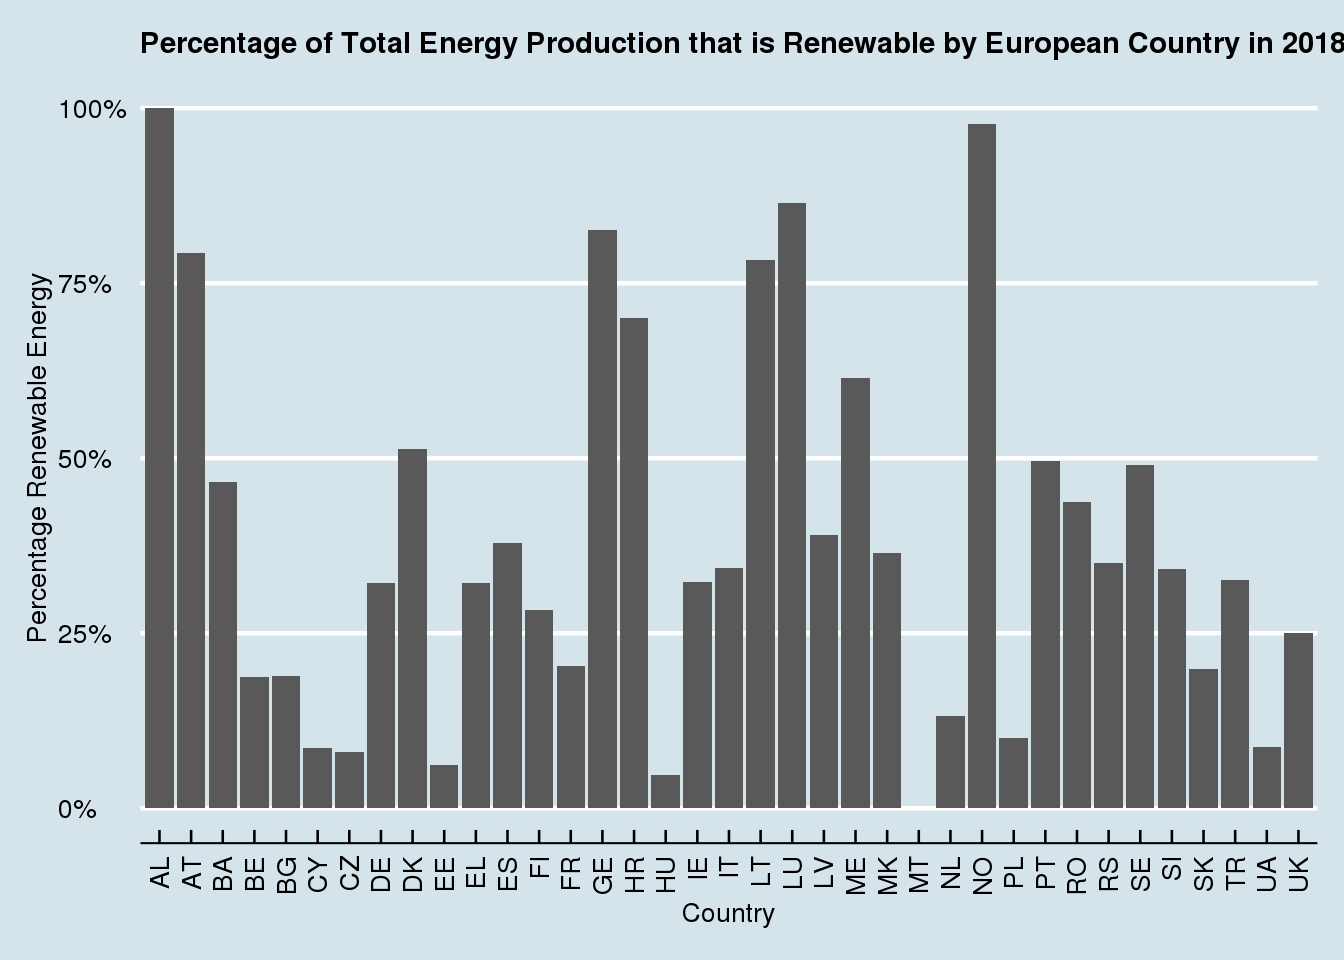
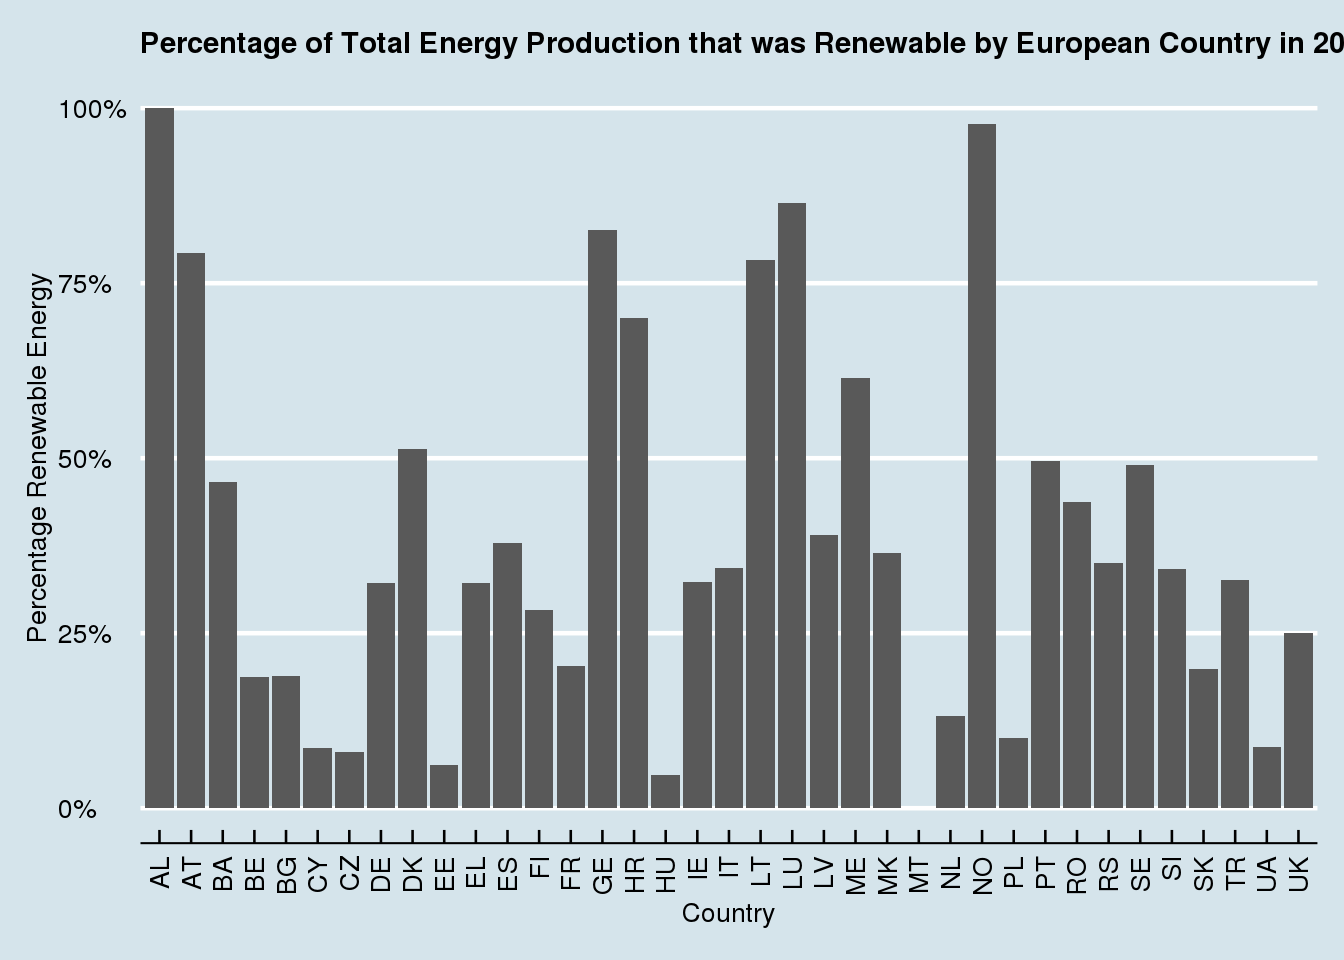
Q2 answer

Changed region(s): [[0.5625, 0.0312, 1.0, 0.0625]]

diff --git a/public/2020/12/08/european-energy-data-analysis/index.html b/public/2020/12/08/european-energy-data-analysis/index.html
@@ -66,7 +66,7 @@
 
   <article class="article">
     
-    <span class="article-duration">4 min read</span>
+    <span class="article-duration">5 min read</span>
     
 
     <h1 class="article-title">European Energy Data Analysis</h1>
@@ -85,9 +85,11 @@
 <h1>European Energy Usage: Clean Energy vs. Conventional</h1>
 <p>Using data that is available on the Tidy Tuesday website on European Energy, I will investigate the energy usage among European countries with an emphasis on which countries are the best at using renewable energy. I will be examining data from the <code>energy_types.csv</code> file from the Tidy Tuesday website. The data consists of 296 observations and 7 variables. The data displays each the energy production from each European country from 2016-2018 and breaks it down by how much energy was produced by conventional thermal, nuclear, hydroelectric, pumped hydroelectric, wind, solar, geothermal, and other.</p>
 <p>The second dataset I will use to explore European Energy production is the <code>country_totals.csv</code> file from the Tidy Tuesday website. The data consists of 185 observations and 7 variables. The data displays the total energy consumption of each European country from 2016-2018 as well as the total energy production of each country.</p>
-<p>For the purposes of this blog post Renewable Energy will be hydroelectric, pumped hydroelectric, wind, solar, geothermal, and other energy productions and clean energy will be renewable energy plus nuclear energy.
-# Question 1</p>
-<p>Which European country had the largest percentage of their total energy production made up of renewable energy in 2018? Which European country had the largest percentage of their total energy production made up of clean energy? To find this, I made 3 separate data frames to summarize the total renewable energy, nuclear energy, and conventional thermal energy that each European Country used. I then joined the 3 data frames and selected the columns with the 2018 data to make one dataset with all of the summarized Energy data from 2018.</p>
+<p>For the purposes of this blog post Renewable Energy will be hydroelectric, pumped hydroelectric, wind, solar, geothermal, and other energy productions and clean energy will be renewable energy plus nuclear energy.</p>
+</div>
+<div id="question-1" class="section level1">
+<h1>Question 1</h1>
+<p>Which European country had the largest percentage of their total energy production made up of renewable energy in 2018? Which European country had the largest percentage of their total energy production made up of clean energy? To find this, I made 3 separate data frames to summarize the total renewable energy, nuclear energy, and conventional thermal energy that each European Country used. I then joined the 3 data frames and selected the columns with the 2018 data to make one dataset with all of the summarized energy data from 2018.</p>
 <pre class="r"><code>dat &lt;- energy_types %&gt;%
   left_join(country_totals, by = c(&quot;country&quot;, &quot;country_name&quot;)) %&gt;%
   rename(twenty_16.x = &#39;2016.x&#39;, twenty_17.x = &#39;2017.x&#39;, twenty_18.x = &#39;2018.x&#39;) %&gt;%
@@ -120,7 +122,7 @@ data_18 &lt;- country_totals  %&gt;%
   geom_bar(stat = &quot;identity&quot;) +
   scale_y_continuous(labels = scales::percent) +
   labs(x = &quot;Country&quot;, y = &quot;Percentage Renewable Energy&quot;) +
-  ggtitle(&quot;Percentage of Total Energy Production that is Renewable by European Country in 2018&quot;) +
+  ggtitle(&quot;Percentage of Total Energy Production that was Renewable by European Country in 2018&quot;) +
   theme_economist() +
   theme(axis.text.x = element_text(angle = 90, hjust = 1, vjust = 0.5)) +
   theme(plot.title = element_text(size = 11))</code></pre>
@@ -129,15 +131,49 @@ data_18 &lt;- country_totals  %&gt;%
   geom_bar(stat = &quot;identity&quot;) +
   scale_y_continuous(labels = scales::percent) +
   labs(x = &quot;Country&quot;, y = &quot;Percentage Clean Energy&quot;) +
-  ggtitle(&quot;Percentage of Total Energy Production that is Clean by European Country in 2018&quot;) +
+  ggtitle(&quot;Percentage of Total Energy Production that was Clean by European Country in 2018&quot;) +
   theme_economist() +
   theme(axis.text.x = element_text(angle = 90, hjust = 1, vjust = 0.5)) +
   theme(plot.title = element_text(size = 11))</code></pre>
-<p><img src="index_files/figure-html/unnamed-chunk-2-2.png" width="672" /></p>
+<p><img src="index_files/figure-html/unnamed-chunk-2-2.png" width="672" />
+Albania was the country with both the highest percentage of Renewable energy and Clean energy, since 100% of their energy production was made by renewable sources. Norway was not far behind with over 90% of their energy production coming from renewable sources. Also Countries such as France and Sweden saw a large increase when comparing their Renewable Energy percentage to their Clean Energy percentage, indicating a large use of nuclear power in these countries.</p>
 </div>
 <div id="question-2" class="section level1">
 <h1>Question 2</h1>
-<p>Which European country has made the biggest shift towards renewable energy since 2016?</p>
+<p>Which European country made the biggest shift towards renewable energy from 2016 to 2018?</p>
+<pre class="r"><code>shift_data &lt;- dat  %&gt;%
+  left_join(dat2, by = &quot;country&quot;) %&gt;%
+  left_join(dat3, by = &quot;country&quot;) %&gt;%
+  mutate(total_2018 = renew_2018 + conventional_2018 + nuclear_2018, total_2017 = renew_2017 + conventional_2017 + nuclear_2017, total_2016 = renew_2016 + conventional_2016 + nuclear_2016) %&gt;%
+  select(1:4, 11:13) %&gt;%
+  group_by(country) %&gt;%
+  summarize(renew_16_prc = renew_2016/total_2016, renew_18_prc = renew_2018/total_2018) %&gt;%
+  mutate(shift = renew_18_prc - renew_16_prc) %&gt;%
+  arrange(desc(shift))
+
+big_shift &lt;- shift_data[1:10, ]
+big_shift</code></pre>
+<pre><code>## # A tibble: 10 x 4
+##    country renew_16_prc renew_18_prc  shift
+##    &lt;chr&gt;          &lt;dbl&gt;        &lt;dbl&gt;  &lt;dbl&gt;
+##  1 BA            0.339         0.466 0.127 
+##  2 LT            0.662         0.783 0.121 
+##  3 DE            0.241         0.321 0.0799
+##  4 IE            0.247         0.323 0.0755
+##  5 UK            0.180         0.250 0.0699
+##  6 AT            0.733         0.793 0.0597
+##  7 BE            0.137         0.187 0.0495
+##  8 DK            0.466         0.514 0.0479
+##  9 NL            0.0902        0.131 0.0412
+## 10 HR            0.660         0.700 0.0393</code></pre>
+<pre class="r"><code>ggplot(big_shift, aes(x = reorder(country, -shift), y = shift)) +
+  geom_col() +
+  scale_y_continuous(labels = scales::percent) +
+  labs(x = &quot;Country&quot;, y = &quot;Percentage Shift to Renewable Energy&quot;) +
+  ggtitle(&quot;The 10 European Countries with the biggest shift towards Renewable Energy from 2016 to 2018&quot;) +
+  theme_economist() +
+  theme(plot.title = element_text(size = 10, hjust = 0))</code></pre>
+<p><img src="index_files/figure-html/unnamed-chunk-4-1.png" width="672" /></p>
 </div>
 <div id="question-3" class="section level1">
 <h1>Question 3</h1>

diff --git a/content/post/2020-12-08-european-energy-data-analysis/index.html b/content/post/2020-12-08-european-energy-data-analysis/index.html
@@ -52,7 +52,7 @@ data_18 &lt;- country_totals  %&gt;%
   geom_bar(stat = &quot;identity&quot;) +
   scale_y_continuous(labels = scales::percent) +
   labs(x = &quot;Country&quot;, y = &quot;Percentage Renewable Energy&quot;) +
-  ggtitle(&quot;Percentage of Total Energy Production that is Renewable by European Country in 2018&quot;) +
+  ggtitle(&quot;Percentage of Total Energy Production that was Renewable by European Country in 2018&quot;) +
   theme_economist() +
   theme(axis.text.x = element_text(angle = 90, hjust = 1, vjust = 0.5)) +
   theme(plot.title = element_text(size = 11))</code></pre>
@@ -61,15 +61,49 @@ data_18 &lt;- country_totals  %&gt;%
   geom_bar(stat = &quot;identity&quot;) +
   scale_y_continuous(labels = scales::percent) +
   labs(x = &quot;Country&quot;, y = &quot;Percentage Clean Energy&quot;) +
-  ggtitle(&quot;Percentage of Total Energy Production that is Clean by European Country in 2018&quot;) +
+  ggtitle(&quot;Percentage of Total Energy Production that was Clean by European Country in 2018&quot;) +
   theme_economist() +
   theme(axis.text.x = element_text(angle = 90, hjust = 1, vjust = 0.5)) +
   theme(plot.title = element_text(size = 11))</code></pre>
-<p><img src="index_files/figure-html/unnamed-chunk-2-2.png" width="672" /></p>
+<p><img src="index_files/figure-html/unnamed-chunk-2-2.png" width="672" />
+Albania was the country with both the highest percentage of Renewable energy and Clean energy, since 100% of their energy production was made by renewable sources. Norway was not far behind with over 90% of their energy production coming from renewable sources. Also Countries such as France and Sweden saw a large increase when comparing their Renewable Energy percentage to their Clean Energy percentage, indicating a large use of nuclear power in these countries.</p>
 </div>
 <div id="question-2" class="section level1">
 <h1>Question 2</h1>
-<p>Which European country has made the biggest shift towards renewable energy since 2016?</p>
+<p>Which European country made the biggest shift towards renewable energy from 2016 to 2018?</p>
+<pre class="r"><code>shift_data &lt;- dat  %&gt;%
+  left_join(dat2, by = &quot;country&quot;) %&gt;%
+  left_join(dat3, by = &quot;country&quot;) %&gt;%
+  mutate(total_2018 = renew_2018 + conventional_2018 + nuclear_2018, total_2017 = renew_2017 + conventional_2017 + nuclear_2017, total_2016 = renew_2016 + conventional_2016 + nuclear_2016) %&gt;%
+  select(1:4, 11:13) %&gt;%
+  group_by(country) %&gt;%
+  summarize(renew_16_prc = renew_2016/total_2016, renew_18_prc = renew_2018/total_2018) %&gt;%
+  mutate(shift = renew_18_prc - renew_16_prc) %&gt;%
+  arrange(desc(shift))
+
+big_shift &lt;- shift_data[1:10, ]
+big_shift</code></pre>
+<pre><code>## # A tibble: 10 x 4
+##    country renew_16_prc renew_18_prc  shift
+##    &lt;chr&gt;          &lt;dbl&gt;        &lt;dbl&gt;  &lt;dbl&gt;
+##  1 BA            0.339         0.466 0.127 
+##  2 LT            0.662         0.783 0.121 
+##  3 DE            0.241         0.321 0.0799
+##  4 IE            0.247         0.323 0.0755
+##  5 UK            0.180         0.250 0.0699
+##  6 AT            0.733         0.793 0.0597
+##  7 BE            0.137         0.187 0.0495
+##  8 DK            0.466         0.514 0.0479
+##  9 NL            0.0902        0.131 0.0412
+## 10 HR            0.660         0.700 0.0393</code></pre>
+<pre class="r"><code>ggplot(big_shift, aes(x = reorder(country, -shift), y = shift)) +
+  geom_col() +
+  scale_y_continuous(labels = scales::percent) +
+  labs(x = &quot;Country&quot;, y = &quot;Percentage Shift to Renewable Energy&quot;) +
+  ggtitle(&quot;The 10 European Countries with the biggest shift towards Renewable Energy from 2016 to 2018&quot;) +
+  theme_economist() +
+  theme(plot.title = element_text(size = 10, hjust = 0))</code></pre>
+<p><img src="index_files/figure-html/unnamed-chunk-4-1.png" width="672" /></p>
 </div>
 <div id="question-3" class="section level1">
 <h1>Question 3</h1>

diff --git a/public/2020/12/03/a-first-post/index.html b/public/2020/12/03/a-first-post/index.html
@@ -208,6 +208,10 @@ f3 / f4</code></pre>
 <p><img src="index_files/figure-html/unnamed-chunk-4-2.png" width="672" /></p>
 <p>The graphs show that both a good offense and defense attract slightly larger crowds to NFL games.</p>
 </div>
+<div id="conclusions" class="section level1">
+<h1>Conclusions:</h1>
+<p>TBD</p>
+</div>
 
     </div>
   </article>

diff --git a/content/post/2020-12-03-a-first-post/index.html b/content/post/2020-12-03-a-first-post/index.html
@@ -138,3 +138,7 @@ f3 / f4</code></pre>
 <p><img src="index_files/figure-html/unnamed-chunk-4-2.png" width="672" /></p>
 <p>The graphs show that both a good offense and defense attract slightly larger crowds to NFL games.</p>
 </div>
+<div id="conclusions" class="section level1">
+<h1>Conclusions:</h1>
+<p>TBD</p>
+</div>
